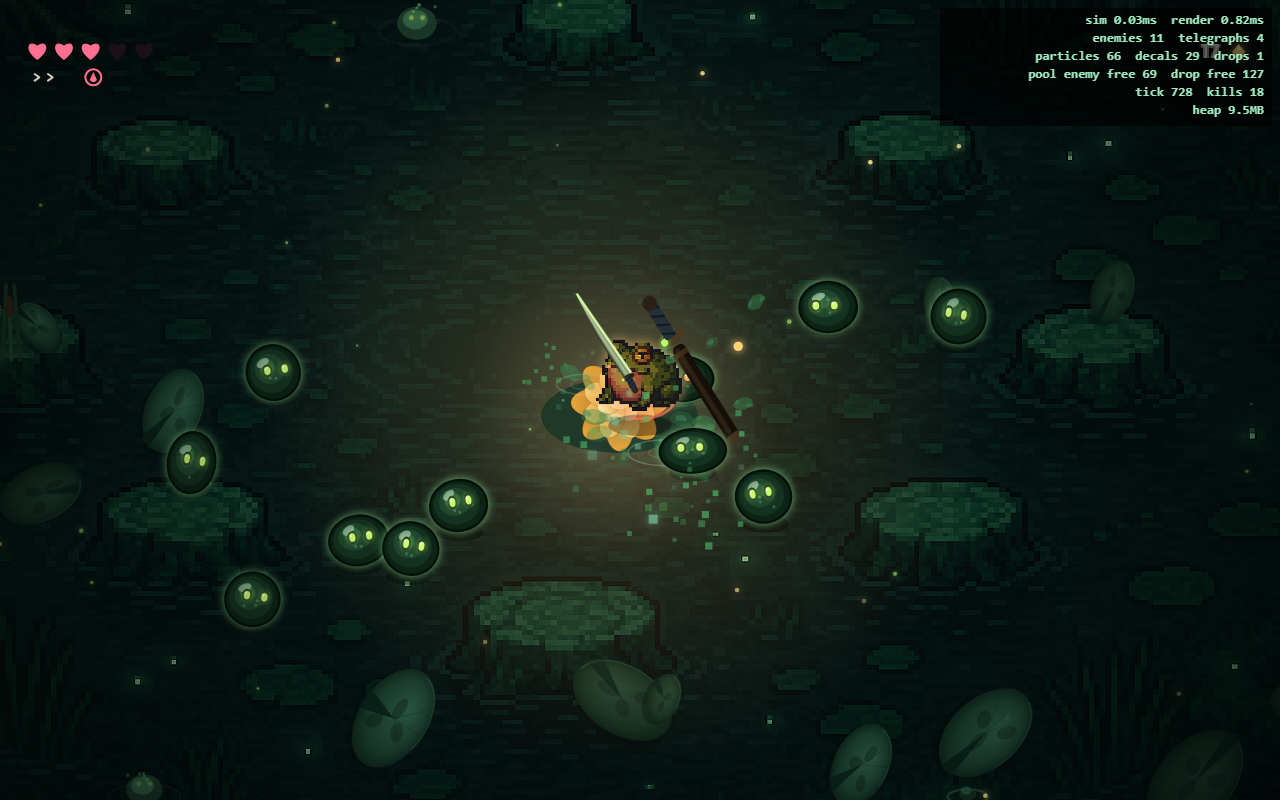
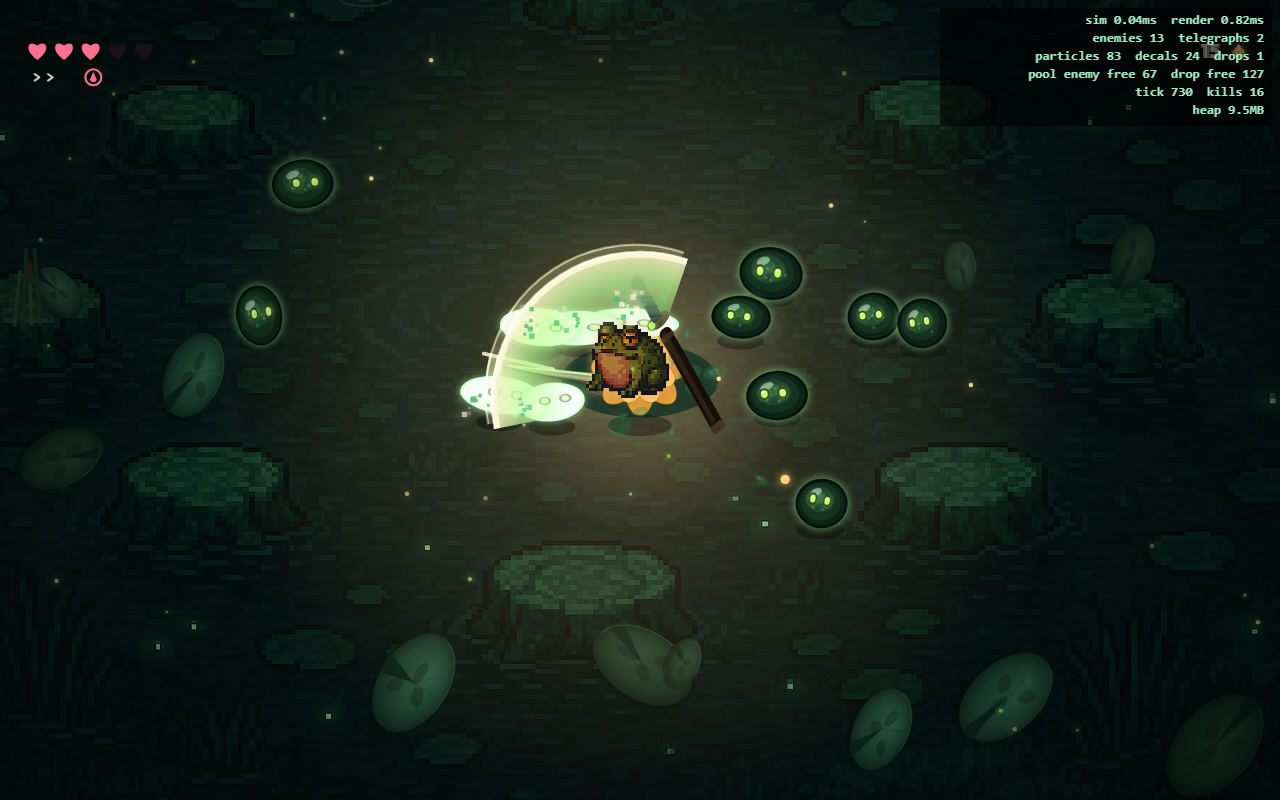
R6: plumper sleepy frog idle, stronger lotus anchor, per-enemy size variance
- Idle frog reads heavier/slumped (deeper belly breathing + plumper resting silhouette).
- Lotus warm-glow range + intensity lifted -> dominant warm anchor vs the teal water.
- Per-instance enemy size (0.85-1.17x seeded) so a crowd reads as varied creatures, not clones.

diff --git a/src/render/render.ts b/src/render/render.ts
@@ -183,13 +183,14 @@ function drawLotus(ctx: CanvasRenderingContext2D, time: number) {
   const cx = ARENA_W / 2, cy = ARENA_H / 2;
   const pulse = 0.85 + Math.sin(time * 1.4) * 0.15;
   ctx.save();
-  // warm radial glow washing the arena center
-  const glow = ctx.createRadialGradient(cx, cy, 20, cx, cy, 560 * pulse);
-  glow.addColorStop(0, 'rgba(255,214,140,0.34)');
-  glow.addColorStop(0.4, 'rgba(255,180,90,0.12)');
+  // warm radial glow washing the arena center — the swamp's hero light source (REF_02 lotus).
+  // Lifted range + intensity so it reads as the dominant warm anchor against the cool teal water.
+  const glow = ctx.createRadialGradient(cx, cy, 20, cx, cy, 680 * pulse);
+  glow.addColorStop(0, 'rgba(255,216,146,0.42)');
+  glow.addColorStop(0.35, 'rgba(255,186,96,0.16)');
   glow.addColorStop(1, 'rgba(255,180,90,0)');
   ctx.fillStyle = glow;
-  ctx.fillRect(cx - 600, cy - 600, 1200, 1200);
+  ctx.fillRect(cx - 720, cy - 720, 1440, 1440);
   // pad
   ctx.fillStyle = 'rgba(28,54,40,0.9)';
   ctx.beginPath(); ctx.ellipse(cx, cy + 10, 84, 40, 0, 0, Math.PI * 2); ctx.fill();
@@ -630,7 +631,11 @@ function drawFrog(ctx: CanvasRenderingContext2D, w: World, fx: number, fy: numbe
   // stretch tall at the apex, squash wide on landing
   let squashX = 1 - hopArc * 0.11;
   let squashY = 1 + hopArc * 0.15;
-  if (!moving && f.dashT <= 0) { const b = Math.sin(time * 2.2) * 0.03; squashX -= b; squashY += b; } // breathing
+  // idle: plumper resting silhouette + deeper belly breathing (REF_02 frog reads heavy/slumped)
+  if (!moving && f.dashT <= 0 && atk.phase === 'none') {
+    const b = Math.sin(time * 1.9) * 0.05;
+    squashX = squashX * 1.04 - b; squashY = squashY * 0.99 + b;
+  }
   if (atk.phase === 'windup' || atk.phase === 'heavywindup') { squashX *= 1.08; squashY *= 0.9; }
   if (atk.phase === 'heavyhold') { squashX *= 1.12 + Math.sin(time * 18) * 0.015; squashY *= 0.86; }
   if (atk.phase === 'active') { squashX *= 0.92; squashY *= 1.1; }
@@ -977,7 +982,8 @@ function drawSlime(ctx: CanvasRenderingContext2D, e: Enemy, r: number, time: num
 function drawEnemy(ctx: CanvasRenderingContext2D, e: Enemy, alpha: number, time: number) {
   const data = ENEMIES[e.kind];
   const ex = e.px + (e.x - e.px) * alpha, ey = e.py + (e.y - e.py) * alpha;
-  const r = data.radius;
+  const sv = 0.85 + ((e.seed * 0.61803) % 1) * 0.32;   // per-instance size — a crowd of varied
+  const r = data.radius * sv;                          // creatures, not cloned sprites (critic note)
   ctx.save();
 
   // hitstop sprite shake (hurtbox static — Sakurai law)
